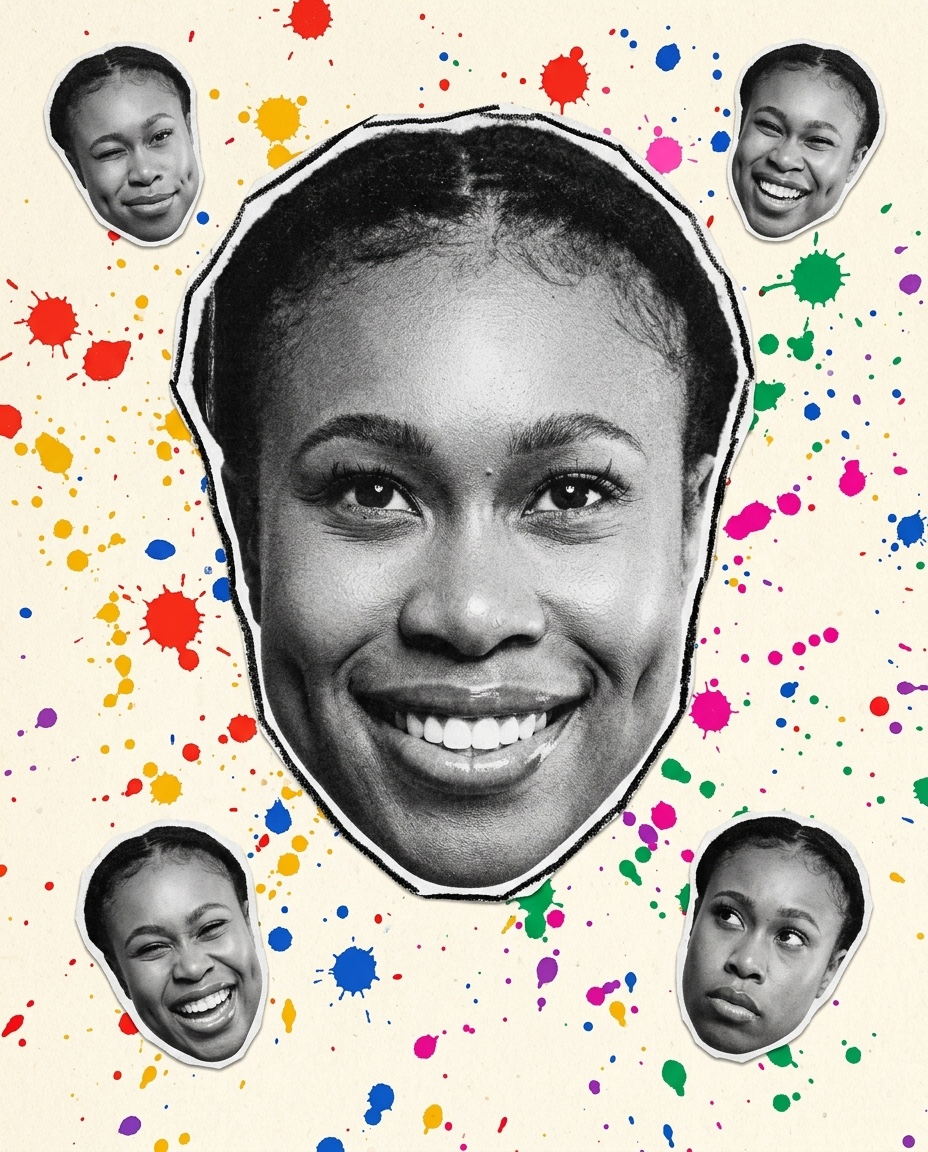
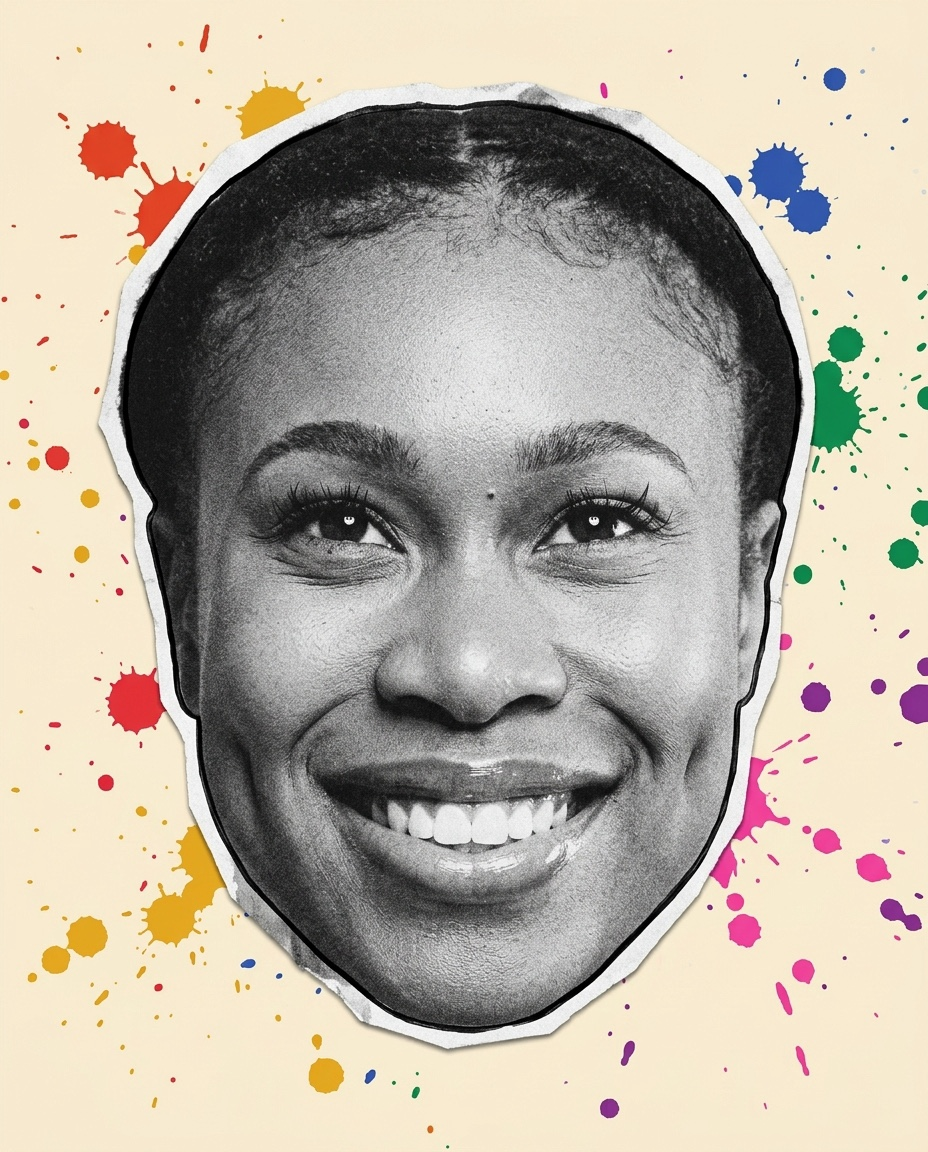
Hero + footer refinements
- Hero image: remove container frame, use the collage as the hero, larger (max 640px)
- Rest state now shows ONLY the closed head (no mini-faces); faces appear on hover
  with the post-its, plus a subtle 'gif' bob on the revealed scene
- Fix headline spacing so the lime 'day.' highlight isn't crowding the line above
- Remove the oversized numbered footer nav on all pages (redundant w/ the drawer)
- Compact preview cards on Home (3-up, smaller)

diff --git a/index.html b/index.html
@@ -246,8 +246,8 @@
   .f-eyebrow{font-weight:700;font-size:0.74rem;text-transform:uppercase;letter-spacing:0.2em;opacity:.85;margin-bottom:14px}
   .f-lead{font-family:"Bricolage Grotesque";font-weight:800;font-size:clamp(2rem,5vw,3.4rem);line-height:0.98;letter-spacing:-0.025em;max-width:15ch;margin-bottom:48px}
   .f-lead .serif{color:var(--yellow)}
-  .f-cols{display:grid;grid-template-columns:1.45fr 0.85fr;gap:46px;align-items:start;padding-bottom:50px;border-bottom:2px solid #ffffff44}
-  @media(max-width:820px){.f-cols{grid-template-columns:1fr;gap:40px}}
+  .f-cols{display:block;padding-bottom:46px;border-bottom:2px solid #ffffff44}
+  
 
   /* big animated nav links */
   .f-nav{display:flex;flex-direction:column}
@@ -285,6 +285,20 @@
   /* ===== multipage additions ===== */
   .navlinks a.active{text-decoration:underline;text-decoration-thickness:3px;text-underline-offset:6px}
   .more-row{display:flex;justify-content:center;margin-top:36px}
+  /* compact preview cards on Home */
+  .grid-preview{grid-template-columns:repeat(3,1fr);gap:18px}
+  @media(max-width:820px){.grid-preview{grid-template-columns:1fr}}
+  .grid-preview .proj .top{padding:13px 16px}
+  .grid-preview .proj .top h3{font-size:1.14rem}
+  .grid-preview .proj .status{font-size:0.56rem;padding:3px 8px}
+  .grid-preview .pbody{padding:16px;gap:9px}
+  .grid-preview .one{font-size:0.92rem}
+  .grid-preview .prob{font-size:0.82rem}
+  .grid-preview .builtwith{gap:5px}
+  .grid-preview .pill{font-size:0.64rem;padding:3px 8px}
+  .grid-preview .lnk{font-size:0.8rem}
+  .grid-preview .lock-btn{font-size:0.74rem;padding:6px 11px}
+  .grid-preview .thumb.ph .big{font-size:1.7rem}
 
   /* ===== left drawer navigation ===== */
   .menu-btn{display:inline-flex;align-items:center;gap:9px;font-family:"Inter";font-weight:700;font-size:0.9rem;background:var(--paper);border:2px solid var(--ink);border-radius:11px;padding:8px 14px;cursor:pointer;box-shadow:var(--shadow-sm);transition:transform .12s,box-shadow .12s}
@@ -318,13 +332,16 @@
   .hero-centered .hero-lead{max-width:760px}
   .hero-centered .lede{margin-left:auto;margin-right:auto}
   .hero-centered .cta-row{justify-content:center;margin-top:26px}
-  .brain-figure{position:relative;margin:24px auto 2px;width:100%;max-width:460px}
+  .hero-centered .title{line-height:1.08;margin:22px 0 20px}
+  .hero-centered .mark{padding-top:.06em;padding-bottom:.06em}
+  .brain-figure{position:relative;margin:18px auto 2px;width:100%;max-width:640px}
   .brain-stack{position:relative;width:100%;padding-top:124%;overflow:visible;
     animation:brainIn 1s cubic-bezier(.2,.8,.2,1) both}
   @keyframes brainIn{0%{opacity:0;transform:translateY(-22px) scale(1.07)}100%{opacity:1;transform:none}}
-  .brain-img{position:absolute;inset:0;width:100%;height:100%;object-fit:cover;display:block;
-    border:3px solid var(--ink);border-radius:20px;box-shadow:12px 12px 0 var(--ink);
-    filter:grayscale(1) contrast(1.04);transition:opacity .5s ease, filter .5s ease}
+  .brain-img{position:absolute;inset:0;width:100%;height:100%;object-fit:contain;display:block;
+    filter:grayscale(1) contrast(1.04);transition:opacity .5s ease, filter .5s ease, transform .5s ease}
+  .brain-figure:hover .brain-img.open,.brain-figure:focus-within .brain-img.open,.brain-figure.is-open .brain-img.open{animation:faceGif 2.6s ease-in-out infinite}
+  @keyframes faceGif{0%,100%{transform:translateY(0) rotate(0deg)}25%{transform:translateY(-4px) rotate(-.6deg)}75%{transform:translateY(2px) rotate(.6deg)}}
   .brain-img.open{opacity:0}
   .brain-figure:hover .brain-img.closed,.brain-figure:focus-within .brain-img.closed,.brain-figure.is-open .brain-img.closed{opacity:0}
   .brain-figure:hover .brain-img.open,.brain-figure:focus-within .brain-img.open,.brain-figure.is-open .brain-img.open{opacity:1}
@@ -459,7 +476,7 @@
       <div><div class="tag">Selected work · preview</div><h2>A peek at the <span class="serif">portfolio.</span></h2></div>
       <p>A few things I’ve shipped. <b>See the full set on the portfolio.</b></p>
     </div>
-    <div class="grid">
+    <div class="grid grid-preview">
 
       <article class="proj pink reveal">
         <div class="top"><h3>BonnetNoona</h3><span class="status">In production</span></div>
@@ -504,14 +521,6 @@
     <div class="f-eyebrow">Navigate</div>
     <div class="f-lead">Got an idea? <span class="serif">Let's ship it.</span></div>
     <div class="f-cols">
-      <nav class="f-nav" aria-label="Footer navigation">
-        <a class="fl" href="index.html"><span class="fl-arrow">→</span><span class="fl-in"><span>Home</span><span>Home</span></span><span class="num">01</span></a>
-        <a class="fl" href="portfolio.html"><span class="fl-arrow">→</span><span class="fl-in"><span>Portfolio</span><span>Portfolio</span></span><span class="num">02</span></a>
-        <a class="fl" href="blog.html"><span class="fl-arrow">→</span><span class="fl-in"><span>Blog</span><span>Blog</span></span><span class="num">03</span></a>
-        <a class="fl" href="tools.html"><span class="fl-arrow">→</span><span class="fl-in"><span>Tools</span><span>Tools</span></span><span class="num">04</span></a>
-        <a class="fl" href="ideas.html"><span class="fl-arrow">→</span><span class="fl-in"><span>Ideas</span><span>Ideas</span></span><span class="num">05</span></a>
-        <a class="fl" href="contact.html"><span class="fl-arrow">→</span><span class="fl-in"><span>Work with me</span><span>Work with me</span></span><span class="num">06</span></a>
-      </nav>
       <div class="f-side">
         <div class="f-eyebrow">Let's connect</div>
         <div class="f-links">

diff --git a/blog.html b/blog.html
@@ -246,8 +246,8 @@
   .f-eyebrow{font-weight:700;font-size:0.74rem;text-transform:uppercase;letter-spacing:0.2em;opacity:.85;margin-bottom:14px}
   .f-lead{font-family:"Bricolage Grotesque";font-weight:800;font-size:clamp(2rem,5vw,3.4rem);line-height:0.98;letter-spacing:-0.025em;max-width:15ch;margin-bottom:48px}
   .f-lead .serif{color:var(--yellow)}
-  .f-cols{display:grid;grid-template-columns:1.45fr 0.85fr;gap:46px;align-items:start;padding-bottom:50px;border-bottom:2px solid #ffffff44}
-  @media(max-width:820px){.f-cols{grid-template-columns:1fr;gap:40px}}
+  .f-cols{display:block;padding-bottom:46px;border-bottom:2px solid #ffffff44}
+  
 
   /* big animated nav links */
   .f-nav{display:flex;flex-direction:column}
@@ -374,14 +374,6 @@
     <div class="f-eyebrow">Navigate</div>
     <div class="f-lead">Got an idea? <span class="serif">Let's ship it.</span></div>
     <div class="f-cols">
-      <nav class="f-nav" aria-label="Footer navigation">
-        <a class="fl" href="index.html"><span class="fl-arrow">→</span><span class="fl-in"><span>Home</span><span>Home</span></span><span class="num">01</span></a>
-        <a class="fl" href="portfolio.html"><span class="fl-arrow">→</span><span class="fl-in"><span>Portfolio</span><span>Portfolio</span></span><span class="num">02</span></a>
-        <a class="fl" href="blog.html"><span class="fl-arrow">→</span><span class="fl-in"><span>Blog</span><span>Blog</span></span><span class="num">03</span></a>
-        <a class="fl" href="tools.html"><span class="fl-arrow">→</span><span class="fl-in"><span>Tools</span><span>Tools</span></span><span class="num">04</span></a>
-        <a class="fl" href="ideas.html"><span class="fl-arrow">→</span><span class="fl-in"><span>Ideas</span><span>Ideas</span></span><span class="num">05</span></a>
-        <a class="fl" href="contact.html"><span class="fl-arrow">→</span><span class="fl-in"><span>Work with me</span><span>Work with me</span></span><span class="num">06</span></a>
-      </nav>
       <div class="f-side">
         <div class="f-eyebrow">Let's connect</div>
         <div class="f-links">

diff --git a/contact.html b/contact.html
@@ -269,8 +269,8 @@
   .f-eyebrow{font-weight:700;font-size:0.74rem;text-transform:uppercase;letter-spacing:0.2em;opacity:.85;margin-bottom:14px}
   .f-lead{font-family:"Bricolage Grotesque";font-weight:800;font-size:clamp(2rem,5vw,3.4rem);line-height:0.98;letter-spacing:-0.025em;max-width:15ch;margin-bottom:48px}
   .f-lead .serif{color:var(--yellow)}
-  .f-cols{display:grid;grid-template-columns:1.45fr 0.85fr;gap:46px;align-items:start;padding-bottom:50px;border-bottom:2px solid #ffffff44}
-  @media(max-width:820px){.f-cols{grid-template-columns:1fr;gap:40px}}
+  .f-cols{display:block;padding-bottom:46px;border-bottom:2px solid #ffffff44}
+  
 
   /* big animated nav links */
   .f-nav{display:flex;flex-direction:column}
@@ -415,14 +415,6 @@
     <div class="f-eyebrow">Navigate</div>
     <div class="f-lead">Got an idea? <span class="serif">Let's ship it.</span></div>
     <div class="f-cols">
-      <nav class="f-nav" aria-label="Footer navigation">
-        <a class="fl" href="index.html"><span class="fl-arrow">→</span><span class="fl-in"><span>Home</span><span>Home</span></span><span class="num">01</span></a>
-        <a class="fl" href="portfolio.html"><span class="fl-arrow">→</span><span class="fl-in"><span>Portfolio</span><span>Portfolio</span></span><span class="num">02</span></a>
-        <a class="fl" href="blog.html"><span class="fl-arrow">→</span><span class="fl-in"><span>Blog</span><span>Blog</span></span><span class="num">03</span></a>
-        <a class="fl" href="tools.html"><span class="fl-arrow">→</span><span class="fl-in"><span>Tools</span><span>Tools</span></span><span class="num">04</span></a>
-        <a class="fl" href="ideas.html"><span class="fl-arrow">→</span><span class="fl-in"><span>Ideas</span><span>Ideas</span></span><span class="num">05</span></a>
-        <a class="fl" href="contact.html"><span class="fl-arrow">→</span><span class="fl-in"><span>Work with me</span><span>Work with me</span></span><span class="num">06</span></a>
-      </nav>
       <div class="f-side">
         <div class="f-eyebrow">Let's connect</div>
         <div class="f-links">

diff --git a/ideas.html b/ideas.html
@@ -246,8 +246,8 @@
   .f-eyebrow{font-weight:700;font-size:0.74rem;text-transform:uppercase;letter-spacing:0.2em;opacity:.85;margin-bottom:14px}
   .f-lead{font-family:"Bricolage Grotesque";font-weight:800;font-size:clamp(2rem,5vw,3.4rem);line-height:0.98;letter-spacing:-0.025em;max-width:15ch;margin-bottom:48px}
   .f-lead .serif{color:var(--yellow)}
-  .f-cols{display:grid;grid-template-columns:1.45fr 0.85fr;gap:46px;align-items:start;padding-bottom:50px;border-bottom:2px solid #ffffff44}
-  @media(max-width:820px){.f-cols{grid-template-columns:1fr;gap:40px}}
+  .f-cols{display:block;padding-bottom:46px;border-bottom:2px solid #ffffff44}
+  
 
   /* big animated nav links */
   .f-nav{display:flex;flex-direction:column}
@@ -367,14 +367,6 @@
     <div class="f-eyebrow">Navigate</div>
     <div class="f-lead">Got an idea? <span class="serif">Let's ship it.</span></div>
     <div class="f-cols">
-      <nav class="f-nav" aria-label="Footer navigation">
-        <a class="fl" href="index.html"><span class="fl-arrow">→</span><span class="fl-in"><span>Home</span><span>Home</span></span><span class="num">01</span></a>
-        <a class="fl" href="portfolio.html"><span class="fl-arrow">→</span><span class="fl-in"><span>Portfolio</span><span>Portfolio</span></span><span class="num">02</span></a>
-        <a class="fl" href="blog.html"><span class="fl-arrow">→</span><span class="fl-in"><span>Blog</span><span>Blog</span></span><span class="num">03</span></a>
-        <a class="fl" href="tools.html"><span class="fl-arrow">→</span><span class="fl-in"><span>Tools</span><span>Tools</span></span><span class="num">04</span></a>
-        <a class="fl" href="ideas.html"><span class="fl-arrow">→</span><span class="fl-in"><span>Ideas</span><span>Ideas</span></span><span class="num">05</span></a>
-        <a class="fl" href="contact.html"><span class="fl-arrow">→</span><span class="fl-in"><span>Work with me</span><span>Work with me</span></span><span class="num">06</span></a>
-      </nav>
       <div class="f-side">
         <div class="f-eyebrow">Let's connect</div>
         <div class="f-links">

diff --git a/portfolio.html b/portfolio.html
@@ -246,8 +246,8 @@
   .f-eyebrow{font-weight:700;font-size:0.74rem;text-transform:uppercase;letter-spacing:0.2em;opacity:.85;margin-bottom:14px}
   .f-lead{font-family:"Bricolage Grotesque";font-weight:800;font-size:clamp(2rem,5vw,3.4rem);line-height:0.98;letter-spacing:-0.025em;max-width:15ch;margin-bottom:48px}
   .f-lead .serif{color:var(--yellow)}
-  .f-cols{display:grid;grid-template-columns:1.45fr 0.85fr;gap:46px;align-items:start;padding-bottom:50px;border-bottom:2px solid #ffffff44}
-  @media(max-width:820px){.f-cols{grid-template-columns:1fr;gap:40px}}
+  .f-cols{display:block;padding-bottom:46px;border-bottom:2px solid #ffffff44}
+  
 
   /* big animated nav links */
   .f-nav{display:flex;flex-direction:column}
@@ -447,14 +447,6 @@
     <div class="f-eyebrow">Navigate</div>
     <div class="f-lead">Got an idea? <span class="serif">Let's ship it.</span></div>
     <div class="f-cols">
-      <nav class="f-nav" aria-label="Footer navigation">
-        <a class="fl" href="index.html"><span class="fl-arrow">→</span><span class="fl-in"><span>Home</span><span>Home</span></span><span class="num">01</span></a>
-        <a class="fl" href="portfolio.html"><span class="fl-arrow">→</span><span class="fl-in"><span>Portfolio</span><span>Portfolio</span></span><span class="num">02</span></a>
-        <a class="fl" href="blog.html"><span class="fl-arrow">→</span><span class="fl-in"><span>Blog</span><span>Blog</span></span><span class="num">03</span></a>
-        <a class="fl" href="tools.html"><span class="fl-arrow">→</span><span class="fl-in"><span>Tools</span><span>Tools</span></span><span class="num">04</span></a>
-        <a class="fl" href="ideas.html"><span class="fl-arrow">→</span><span class="fl-in"><span>Ideas</span><span>Ideas</span></span><span class="num">05</span></a>
-        <a class="fl" href="contact.html"><span class="fl-arrow">→</span><span class="fl-in"><span>Work with me</span><span>Work with me</span></span><span class="num">06</span></a>
-      </nav>
       <div class="f-side">
         <div class="f-eyebrow">Let's connect</div>
         <div class="f-links">

diff --git a/tools.html b/tools.html
@@ -246,8 +246,8 @@
   .f-eyebrow{font-weight:700;font-size:0.74rem;text-transform:uppercase;letter-spacing:0.2em;opacity:.85;margin-bottom:14px}
   .f-lead{font-family:"Bricolage Grotesque";font-weight:800;font-size:clamp(2rem,5vw,3.4rem);line-height:0.98;letter-spacing:-0.025em;max-width:15ch;margin-bottom:48px}
   .f-lead .serif{color:var(--yellow)}
-  .f-cols{display:grid;grid-template-columns:1.45fr 0.85fr;gap:46px;align-items:start;padding-bottom:50px;border-bottom:2px solid #ffffff44}
-  @media(max-width:820px){.f-cols{grid-template-columns:1fr;gap:40px}}
+  .f-cols{display:block;padding-bottom:46px;border-bottom:2px solid #ffffff44}
+  
 
   /* big animated nav links */
   .f-nav{display:flex;flex-direction:column}
@@ -376,14 +376,6 @@
     <div class="f-eyebrow">Navigate</div>
     <div class="f-lead">Got an idea? <span class="serif">Let's ship it.</span></div>
     <div class="f-cols">
-      <nav class="f-nav" aria-label="Footer navigation">
-        <a class="fl" href="index.html"><span class="fl-arrow">→</span><span class="fl-in"><span>Home</span><span>Home</span></span><span class="num">01</span></a>
-        <a class="fl" href="portfolio.html"><span class="fl-arrow">→</span><span class="fl-in"><span>Portfolio</span><span>Portfolio</span></span><span class="num">02</span></a>
-        <a class="fl" href="blog.html"><span class="fl-arrow">→</span><span class="fl-in"><span>Blog</span><span>Blog</span></span><span class="num">03</span></a>
-        <a class="fl" href="tools.html"><span class="fl-arrow">→</span><span class="fl-in"><span>Tools</span><span>Tools</span></span><span class="num">04</span></a>
-        <a class="fl" href="ideas.html"><span class="fl-arrow">→</span><span class="fl-in"><span>Ideas</span><span>Ideas</span></span><span class="num">05</span></a>
-        <a class="fl" href="contact.html"><span class="fl-arrow">→</span><span class="fl-in"><span>Work with me</span><span>Work with me</span></span><span class="num">06</span></a>
-      </nav>
       <div class="f-side">
         <div class="f-eyebrow">Let's connect</div>
         <div class="f-links">